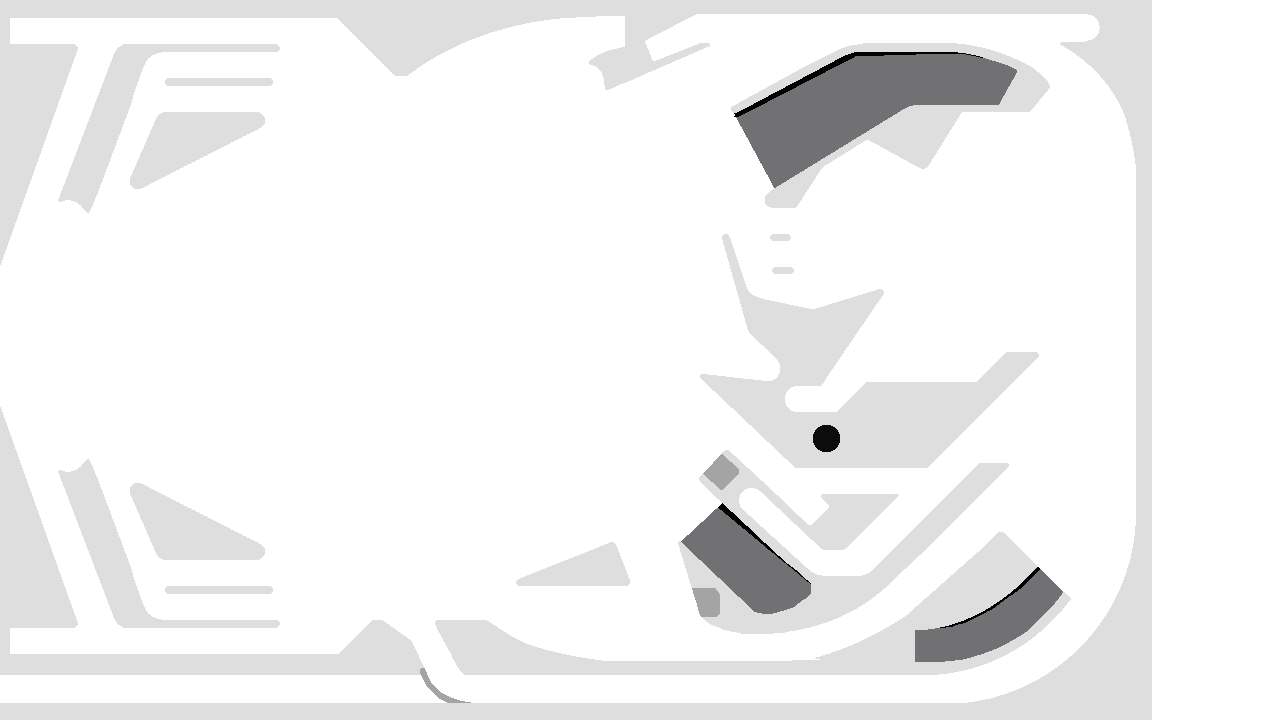
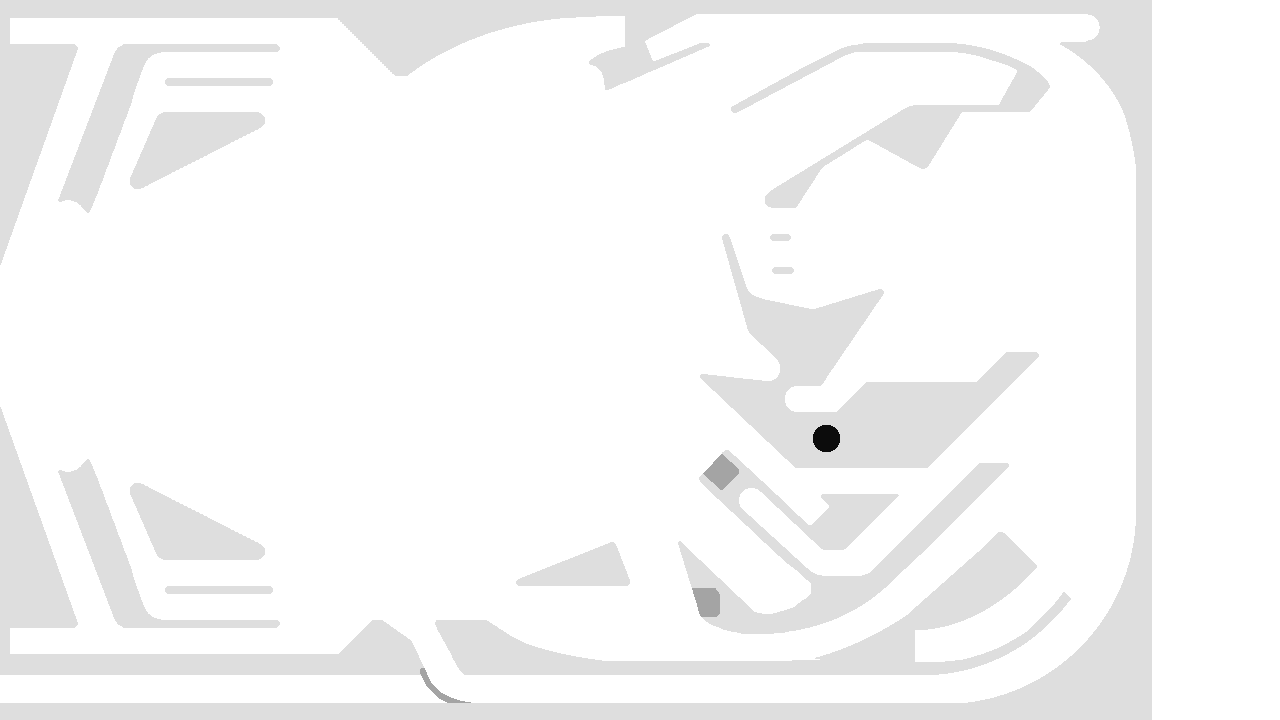
progress targets

Changed region(s): [[0.5625, 0.0611, 0.8125, 0.275], [0.5312, 0.7028, 0.6562, 0.8556], [0.6875, 0.7944, 0.8438, 0.9167]]

diff --git a/games/pinball/source/ptarget.cpp b/games/pinball/source/ptarget.cpp
@@ -1,0 +1,104 @@
+#include "ptarget.h"
+
+PTarget::PTarget(C2DRenderer* renderer, b2World& world, int targetGroupID, int layerID) {
+    m_layerID = layerID;
+    m_flashTimer = 0;
+    m_currentTarget = 0;
+    m_frame = 0;
+    vector<vector<float>> shapes = m_targetGroups.at(targetGroupID);
+    for (size_t s = 0; s < shapes.size(); s++) {
+        vector<float> points = shapes.at(s);
+        b2Vec2* vs = getVertexArray(points);
+        b2ChainShape chain;
+        chain.CreateChain(vs, points.size() / 2);
+        free(vs);
+        vs = NULL;
+
+        b2BodyDef bodyDef;
+        b2Body* body = world.CreateBody(&bodyDef);
+        b2FixtureDef fixtureDef;
+        fixtureDef.shape = &chain;
+        fixtureDef.density = 0.0f;
+        fixtureDef.friction = 0.3f;
+        fixtureDef.isSensor = true;
+        fixtureDef.filter.maskBits = 0xFFFF;
+        fixtureDef.filter.categoryBits = 0xFFFF;
+        b2Fixture* fixture = body->CreateFixture(&fixtureDef);
+        m_fixtures.push_back(fixture);
+    #if DEBUG
+        // Debug graphics
+        ConvexShape* cshape = new ConvexShape();
+        addPointsToShape(cshape, points);
+        cshape->getVertexArray()->setPrimitiveType(PrimitiveType::LineStrip);
+        renderer->add(cshape);
+    #else
+        C2DTexture* textureEnabled;
+        textureEnabled = new C2DTexture(renderer->getIo()->getDataReadPath() + "pinballnx/ptarget" + to_string(targetGroupID) + "-" + to_string(s) + "enabled.png");
+        textureEnabled->setLayer(-99);
+        textureEnabled->setPosition(m_positions.at(targetGroupID).at(s * 2), m_positions.at(targetGroupID).at(s * 2 + 1));
+        renderer->add(textureEnabled);
+        m_texturesEnabled.push_back(textureEnabled);
+        C2DTexture* textureDisabled;
+        textureDisabled = new C2DTexture(renderer->getIo()->getDataReadPath() + "pinballnx/ptarget" + to_string(targetGroupID) + "-" + to_string(s) + "disabled.png");
+        textureDisabled->setLayer(layerID * 2);
+        textureDisabled->setPosition(m_positions.at(targetGroupID).at(s * 2), m_positions.at(targetGroupID).at(s * 2 + 1));
+        m_texturesDisabled.push_back(textureDisabled);
+        renderer->add(textureDisabled);
+    #endif
+    }
+}
+
+vector<b2Fixture*> PTarget::getFixtures() {
+    return m_fixtures;
+}
+
+void PTarget::update() {
+    if (m_flashTimer < m_flashFrames)
+        m_flashTimer++;
+    else if (m_flashTimer == m_flashFrames) {
+        m_flashTimer = 0;
+        if (m_frame == 0) {
+            m_frame = 1;
+#if !DEBUG
+            m_texturesEnabled.at(m_currentTarget)->setLayer(-99);
+            m_texturesDisabled.at(m_currentTarget)->setLayer(m_layerID * 2);
+#endif
+        }
+        else {
+            m_frame = 0;
+#if !DEBUG
+            m_texturesEnabled.at(m_currentTarget)->setLayer(m_layerID * 2);
+            m_texturesDisabled.at(m_currentTarget)->setLayer(-99);
+#endif
+        }
+    }
+}
+
+bool PTarget::isCurrent(size_t targetID) {
+    return targetID == m_currentTarget;
+}
+
+bool PTarget::press(size_t targetID) {
+    if (targetID == m_currentTarget) {
+#if !DEBUG
+        m_texturesEnabled.at(targetID)->setLayer(-99);
+        m_texturesDisabled.at(targetID)->setLayer(m_layerID * 2);
+#endif
+        m_frame = 0;
+        m_currentTarget++;
+        if (m_currentTarget == m_fixtures.size()) {
+            m_currentTarget = 0;
+        }
+    }
+    return m_currentTarget == 0;
+}
+
+void PTarget::reset() {
+    for (size_t i = 0; i < m_fixtures.size(); i++) {
+#if !DEBUG
+        m_texturesDisabled.at(i)->setLayer(m_layerID * 2);
+        m_texturesEnabled.at(i)->setLayer(-99);
+#endif
+    }
+    m_currentTarget = 0;
+}

diff --git a/games/pinball/source/table.cpp b/games/pinball/source/table.cpp
@@ -7,6 +7,7 @@ Table::Table(C2DRenderer* renderer, b2World& world) :
     m_spinners(),
     m_pinballs(),
     m_gtargets(),
+    m_ptargets(),
     m_wheels(),
     m_scoreboard(renderer),
     m_leftFlipper(renderer, world, 0),
@@ -221,6 +222,9 @@ Table::Table(C2DRenderer* renderer, b2World& world) :
     GTarget* launchTargets = new GTarget(renderer, world, 4, 2, true);
     m_gtargets.push_back(launchTargets);
 
+    PTarget* rampTargets = new PTarget(renderer, world, 0, 2);
+    m_ptargets.push_back(rampTargets);
+
     Wheel* wheel1 = new Wheel(renderer, world, 0);
     m_wheels.push_back(wheel1);
 
@@ -276,8 +280,11 @@ void Table::update(unsigned int keys) {
                 m_pinballs.push_back(nextPinball);
             }
             // Reset targets
-            for(size_t g = 0; g < m_gtargets.size(); g++) {
+            for (size_t g = 0; g < m_gtargets.size(); g++) {
                 m_gtargets.at(g)->reset();
+            }
+            for (size_t p = 0; p < m_ptargets.size(); p++) {
+                m_ptargets.at(p)->reset();
             }
             for (size_t b = 0; b < m_ballLocks.size(); b++) {
                 m_ballLocks.at(b)->reset();
@@ -360,6 +367,10 @@ void Table::update(unsigned int keys) {
     for(size_t g = 0; g < m_gtargets.size(); g++) {
         GTarget* gtarget = m_gtargets.at(g);
         gtarget->update();
+    }
+    for (size_t p = 0; p < m_ptargets.size(); p++) {
+        PTarget* ptarget = m_ptargets.at(p);
+        ptarget->update();
     }
     for (size_t w = 0; w < m_wheels.size(); w++) {
         Wheel* wheel = m_wheels.at(w);
@@ -528,6 +539,24 @@ void Table::BeginContact(b2Contact* contact) {
                 }
             }
             if (gtargetCompleted)
+                m_score += 50000;
+        }
+        for (size_t p = 0; p < m_ptargets.size(); p++) {
+            PTarget* ptarget = m_ptargets.at(p);
+            bool ptargetCompleted = false;
+            vector<b2Fixture*> fixtures = ptarget->getFixtures();
+            for (size_t t = 0; t < fixtures.size(); t++) {
+                b2Fixture* targetFixture = fixtures.at(t);
+                if ((fixtureA == targetFixture && fixtureB == pinball->getFixture()) ||
+                    (fixtureA == pinball->getFixture() && fixtureB == targetFixture)) {
+                        if (ptarget->isCurrent(t)) {
+                            m_score += 5000;
+                            if (ptarget->press(t))
+                                ptargetCompleted = true;
+                        }
+                }
+            }
+            if (ptargetCompleted)
                 m_score += 50000;
         }
         for (size_t w = 0; w < m_wheels.size(); w++) {

diff --git a/games/pinball/source/ptarget.h b/games/pinball/source/ptarget.h
@@ -1,0 +1,51 @@
+#ifndef PTARGET_H_
+#define PTARGET_H_
+
+#include <list>
+#include "cross2d/c2d.h"
+#include "Box2D/Box2D.h"
+#include "util.h"
+
+using namespace c2d;
+using namespace std;
+
+class PTarget {
+    public:
+        PTarget(C2DRenderer* renderer, b2World& world, int targetGroupID, int layerID);
+        vector<b2Fixture*> getFixtures();
+        void update();
+        bool isCurrent(size_t targetID);
+        bool press(size_t targetID); // Returns true if the last target in the progression was pressed.
+        void reset();
+    private:
+        int m_layerID;
+        vector<b2Fixture*> m_fixtures;
+        vector<C2DTexture*> m_texturesEnabled;
+        vector<C2DTexture*> m_texturesDisabled;
+        size_t m_currentTarget = 0;
+        int m_flashTimer = 0;
+        int m_flashFrames = 2048 / g_displayFrameRate;
+        int m_frame = 0;
+
+        vector<float> m_rightRamp = {792.0, 588.4, 784.5, 591.6, 770.3, 597.5, 756.0, 603.4, 755.5, 605.0, 755.0, 606.7, 755.5, 608.3, 756.1, 609.8, 766.6, 616.9, 777.1, 624.0, 778.3, 624.0, 779.5, 624.0, 800.3, 616.9, 821.2, 609.7, 822.6, 608.3, 824.0, 606.9, 824.0, 605.2, 824.0, 603.6, 819.3, 599.2, 814.5, 594.7, 808.7, 589.9, 802.9, 585.0, 801.2, 585.1, 799.5, 585.1, 792.0, 588.4};
+        vector<float> m_leftRamp = {996.6, 66.5, 995.1, 68.1, 990.5, 82.4, 986.0, 96.8, 986.0, 97.8, 986.0, 98.9, 987.6, 100.4, 989.1, 102.0, 1004.7, 102.0, 1020.2, 102.0, 1023.7, 98.2, 1027.2, 94.5, 1029.8, 90.7, 1032.3, 87.0, 1031.4, 85.0, 1030.5, 83.0, 1015.6, 74.0, 1000.7, 65.0, 999.4, 65.0, 998.1, 65.0, 996.6, 66.5};
+        vector<float> m_topRightRamp = {1029.9, 578.0, 1028.3, 578.9, 1024.5, 584.4, 1020.8, 589.8, 1021.4, 591.7, 1022.0, 593.5, 1029.2, 599.6, 1036.5, 605.6, 1039.2, 607.4, 1041.9, 609.2, 1043.8, 608.5, 1045.8, 607.9, 1050.4, 603.0, 1055.0, 598.1, 1055.0, 596.4, 1055.0, 594.8, 1051.9, 591.9, 1048.7, 588.9, 1041.3, 583.0, 1033.9, 577.0, 1032.7, 577.0, 1031.5, 577.1, 1029.9, 578.0};
+
+        vector<vector<float>> m_rampGroup = {
+            m_rightRamp, m_leftRamp, m_topRightRamp
+        };
+
+        vector<vector<vector<float>>> m_targetGroups = {
+            m_rampGroup
+        };
+
+        vector<vector<float>> m_positions = {
+            {
+                705, 525,
+                768, 111,
+                1020, 581
+            }
+        };
+};
+
+#endif

diff --git a/games/pinball/source/table.h b/games/pinball/source/table.h
@@ -18,6 +18,7 @@
 #include "trigger.h"
 #include "balllock.h"
 #include "gtarget.h"
+#include "ptarget.h"
 #include "wheel.h"
 
 using namespace c2d;
@@ -51,6 +52,7 @@ class Table : public b2ContactListener {
         vector<int> m_lockBallLocations;
         vector<BallLock*> m_ballLocks;
         vector<GTarget*> m_gtargets;
+        vector<PTarget*> m_ptargets;
         vector<Wheel*> m_wheels;
         Scoreboard m_scoreboard;
         Flipper m_leftFlipper;
